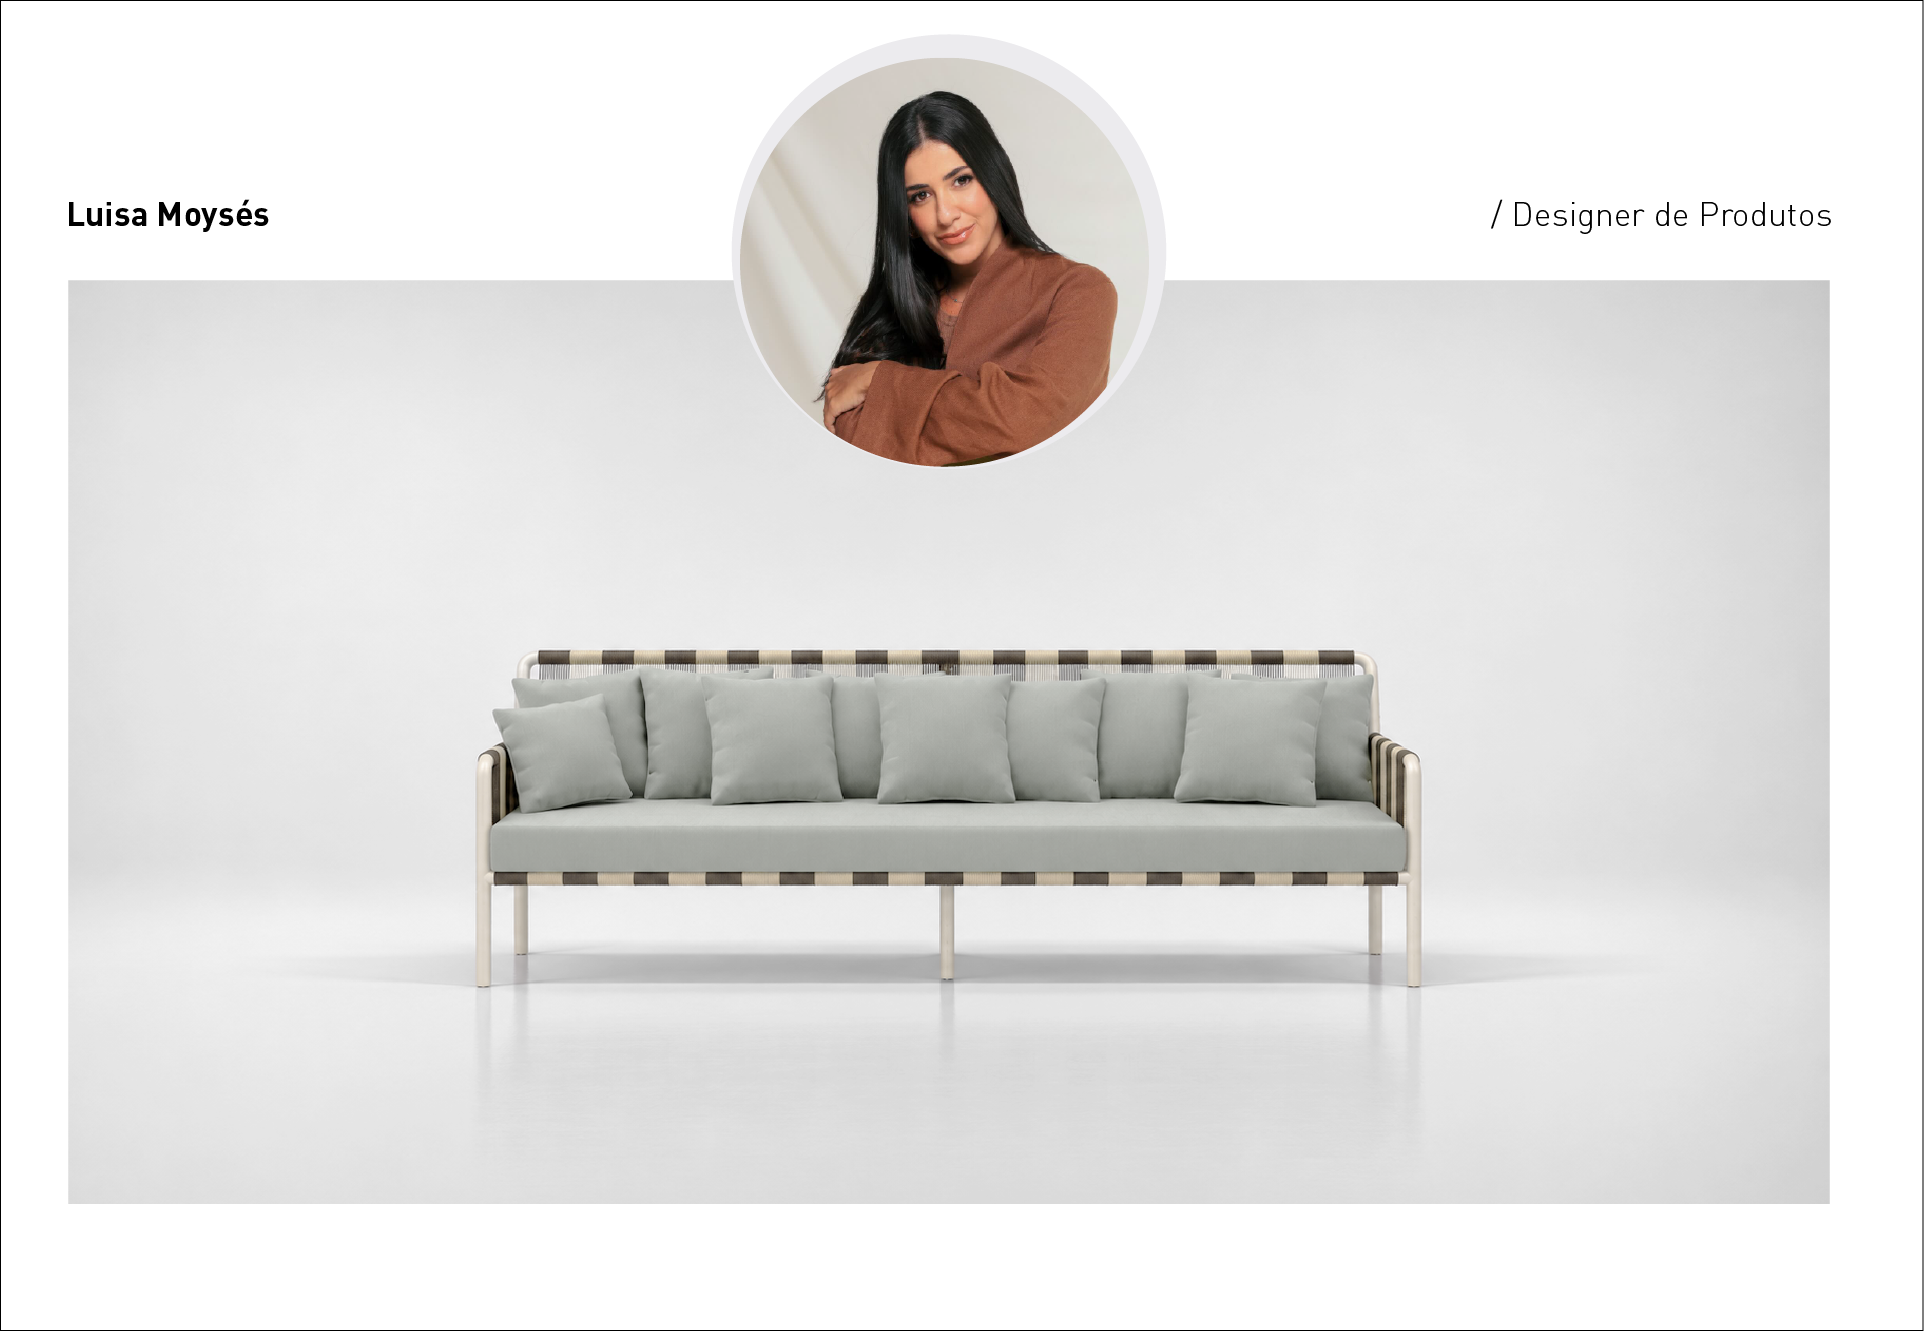
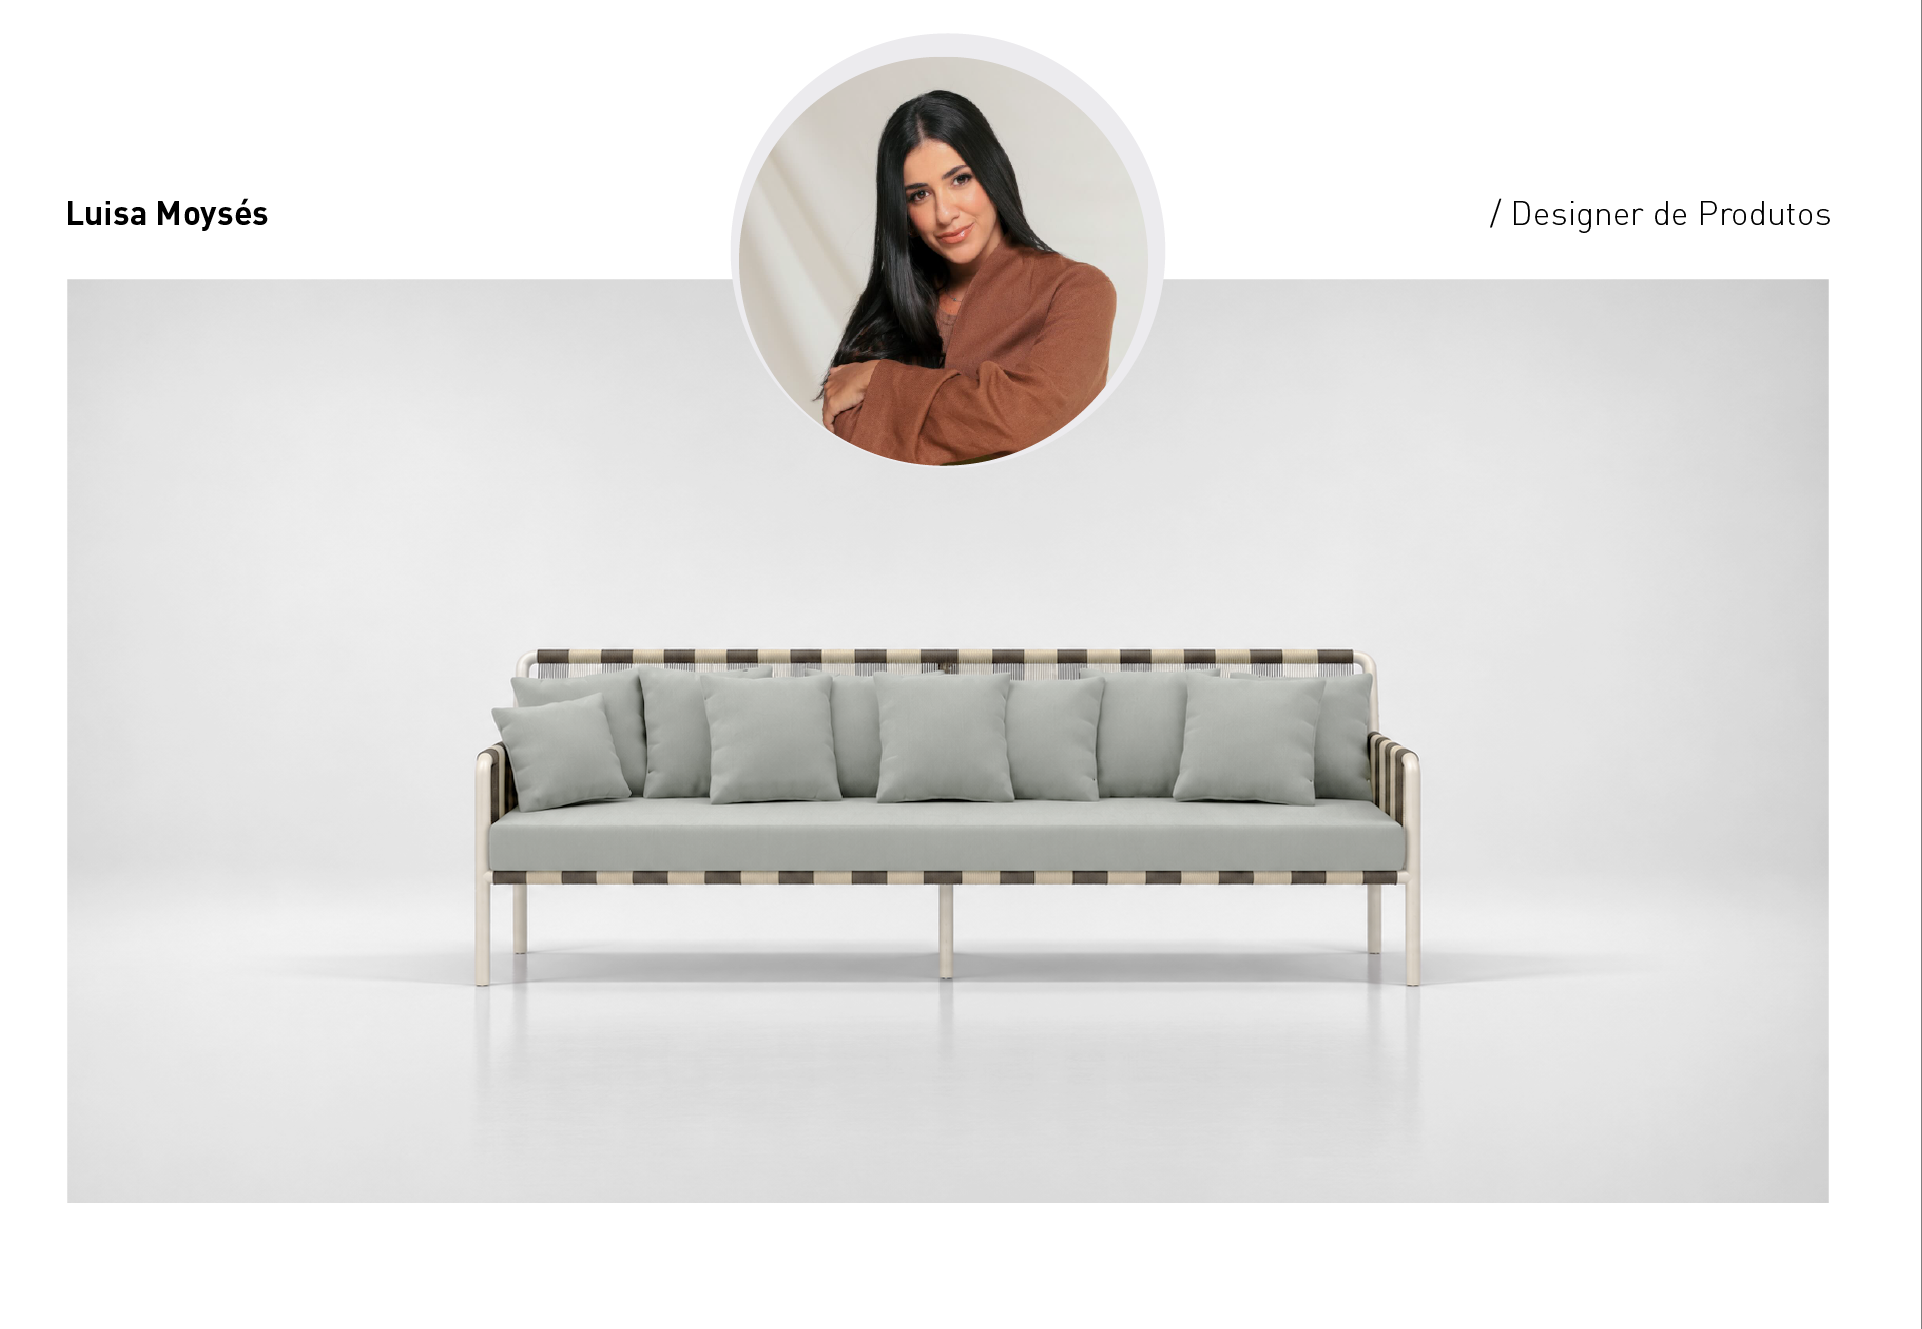
novo

Changed region(s): [[0.999, 0.0, 1.0, 1.0], [0.7804, 0.1543, 0.9365, 0.1851], [0.0312, 0.1543, 0.1249, 0.1851]]

diff --git a/email-blacklabel2/index.html b/email-blacklabel2/index.html
@@ -1,3 +1,4 @@
+<!doctype html>
 <html lang="pt-BR" xmlns="http://www.w3.org/1999/xhtml" xmlns:v="urn:schemas-microsoft-com:vml" xmlns:o="urn:schemas-microsoft-com:office:office"><head>
   <meta charset="utf-8">
   <meta name="viewport" content="width=device-width,initial-scale=1">
@@ -29,16 +30,16 @@
   <tr><td height="26" style="height:26px;font-size:1px;line-height:26px;">&nbsp;</td></tr>
   <tr><td class="intro-copy" align="center" style="font-family:'DIN Pro',Arial,sans-serif;font-size:18px;line-height:23px;font-weight:400;color:#000000;mso-line-height-rule:exactly;">Na Breton Black Label, você encontra móveis assinados, com possibilidades de personalização para compor espaços ao ar livre. São diferentes opções de tecidos, acabamentos e configurações para criar peças sob encomenda, pensadas para cada ambiente.</td></tr></tbody></table>
   </td></tr>
-  <!-- ESPREGUIÇADEIRA MAUI -->
-  <tr><td class="body-pad" align="center" bgcolor="#edebf0" style="padding:35px 60px 0;background-color:#edebf0;"><img src="https://gabriellrojo.github.io/breton-media/email-blacklabel2/baixo.png" width="630" alt="Espreguiçadeira Maui" style="display:block;width:100%;max-width:630px;height:auto;border:0;"></td></tr>
+  <!-- GIF ESPREGUIÇADEIRA MAUI: publicar gif-opt.gif na pasta email-blacklabel2 -->
+  <tr><td class="body-pad" align="center" bgcolor="#edebf0" style="padding:35px 60px 0;background-color:#edebf0;"><img src="https://gabriellrojo.github.io/breton-media/email-blacklabel2/gif-opt.gif" width="630" alt="Espreguiçadeira Maui" style="display:block;width:100%;max-width:630px;height:auto;border:0;"></td></tr>
   <!-- DIVISÓRIA -->
   <tr><td bgcolor="#edebf0" style="padding:34px 60px 0;background-color:#edebf0;"><table role="presentation" width="100%" cellpadding="0" cellspacing="0" border="0"><tbody><tr><td height="1" bgcolor="#a9a6aa" style="height:1px;line-height:1px;font-size:1px;">&nbsp;</td></tr></tbody></table></td></tr>
   <!-- APRESENTAÇÃO DA COLEÇÃO -->
   <tr><td class="body-pad" align="center" bgcolor="#edebf0" style="padding:24px 48px 34px;background-color:#edebf0;font-family:'DIN Pro',Arial,sans-serif;font-size:16px;line-height:23px;font-weight:400;color:#000000;mso-line-height-rule:exactly;">Conheça a coleção de área externa <strong style="font-weight:700;">Itacaré</strong>, assinada por Luisa Moysés</td></tr>
-  <!-- LUISA MOYSÉS E SOFÁ ITACARÉ: COMPOSIÇÃO ÚNICA -->
+  <!-- LUISA MOYSÉS E SOFÁ ITACARÉ: PNG SEM BORDA EMBUTIDA -->
   <tr><td class="body-pad" align="center" bgcolor="#edebf0" style="padding:0 60px;background-color:#edebf0;"><img src="https://gabriellrojo.github.io/breton-media/email-blacklabel2/luisa.png" width="630" alt="Luisa Moysés, designer de produtos, e Sofá Itacaré" style="display:block;width:100%;max-width:630px;height:auto;border:0;"></td></tr>
   <tr><td class="caption body-pad" align="center" bgcolor="#edebf0" style="padding:0 60px 26px;background-color:#edebf0;font-family:'DIN Pro',Arial,sans-serif;font-size:13px;line-height:19px;font-weight:400;color:#000000;mso-line-height-rule:exactly;">Sofá <strong style="font-weight:700;">Itacaré</strong></td></tr>
-  <!-- CADEIRAS E POLTRONA: ARTE ÚNICA PARA EVITAR QUEBRAS NO OUTLOOK -->
+  <!-- CADEIRAS E POLTRONA: PNG SEM BORDA EMBUTIDA -->
   <tr><td class="body-pad" align="center" bgcolor="#edebf0" style="padding:0 60px;background-color:#edebf0;"><img src="https://gabriellrojo.github.io/breton-media/email-blacklabel2/dupla1.png" width="630" alt="Cadeiras com e sem braço Itacaré e Poltrona Itacaré" style="display:block;width:100%;max-width:630px;height:auto;border:0;"></td></tr>
   <tr><td class="body-pad" bgcolor="#edebf0" style="padding:0 60px 25px;background-color:#edebf0;"><table role="presentation" width="100%" cellpadding="0" cellspacing="0" border="0" style="table-layout:fixed;"><tbody><tr><td width="50%" align="center" valign="top" class="caption" style="width:50%;font-family:'DIN Pro',Arial,sans-serif;font-size:13px;line-height:19px;color:#000000;mso-line-height-rule:exactly;">Cadeiras com e sem braço <strong style="font-weight:700;">Itacaré</strong></td><td width="50%" align="center" valign="top" class="caption" style="width:50%;font-family:'DIN Pro',Arial,sans-serif;font-size:13px;line-height:19px;color:#000000;mso-line-height-rule:exactly;">Poltrona <strong style="font-weight:700;">Itacaré</strong></td></tr></tbody></table></td></tr>
   <!-- MESAS ITACARÉ: LEGENDAS JÁ INTEGRADAS À ARTE -->
